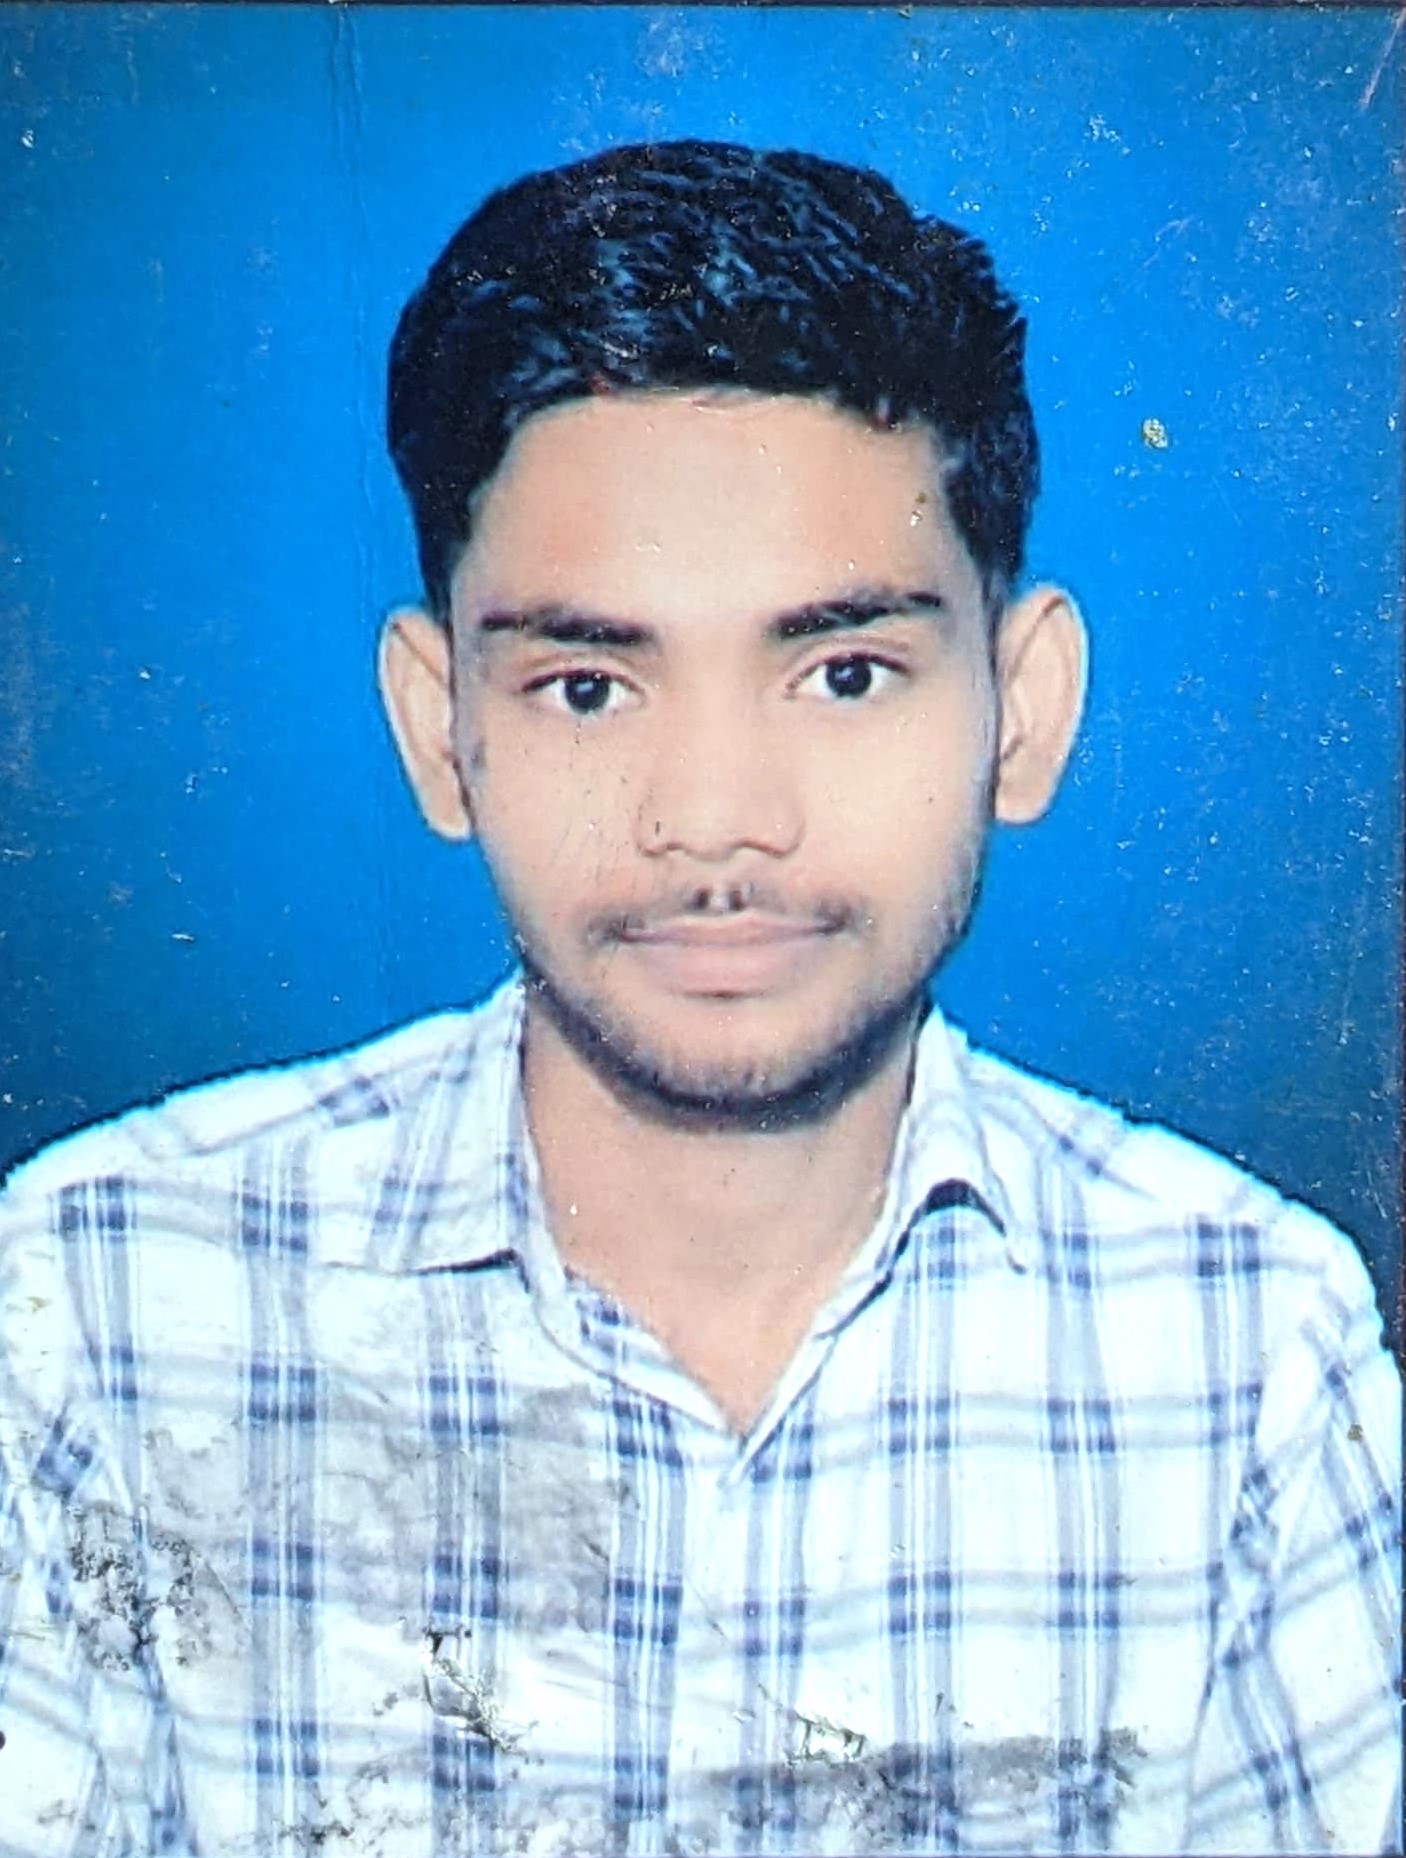
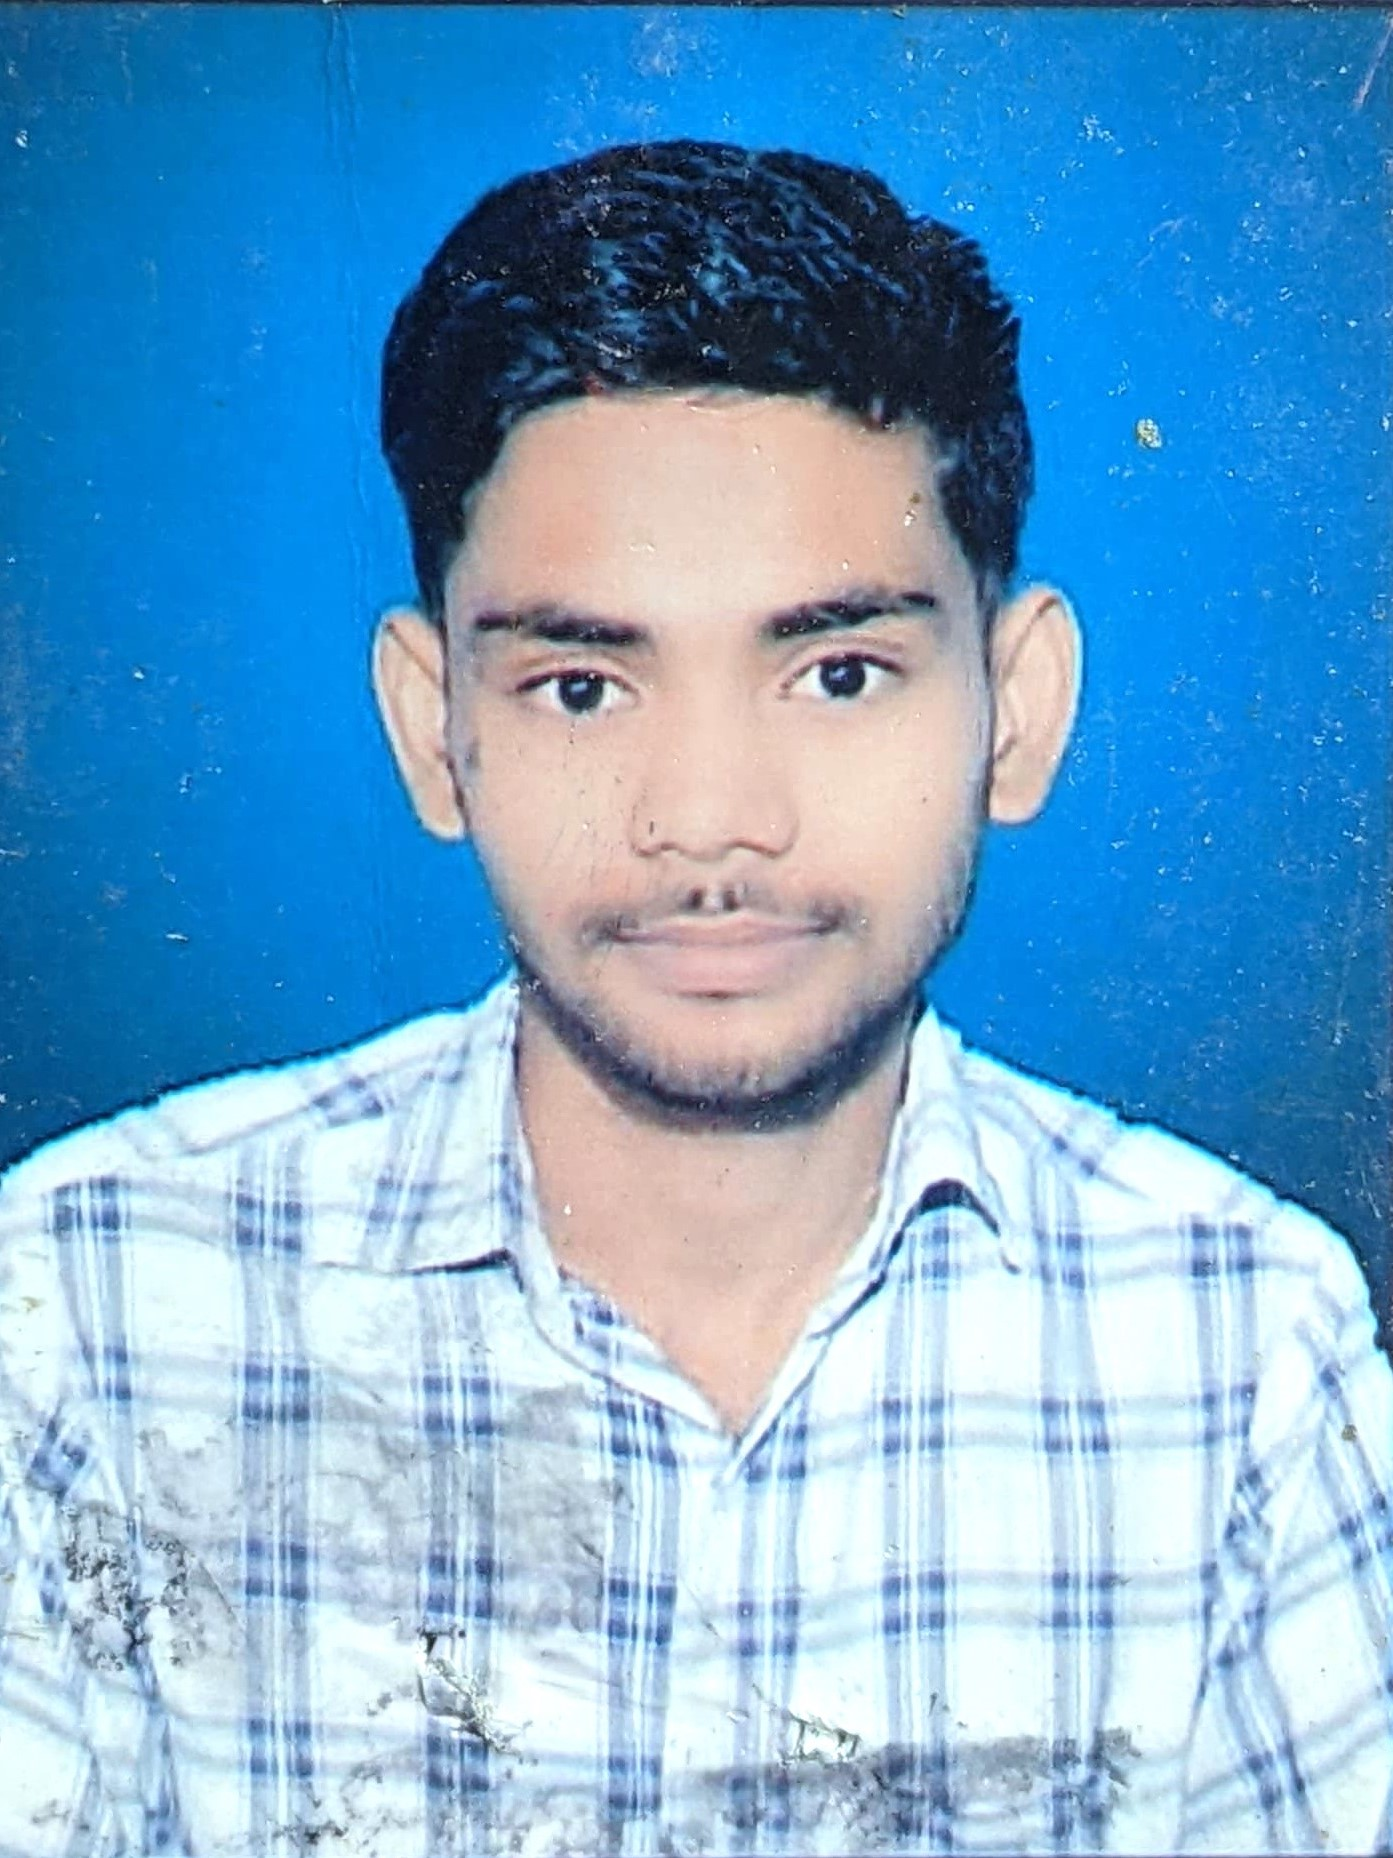
image section done

diff --git a/style.css b/style.css
@@ -68,34 +68,23 @@ h3{
 
 /* end */
 .image{
-    height: 400px;
-    width: 350px;
-    animation-name: move;
-    animation-duration: 5s;
-    animation-fill-mode: forwards;
-    animation-iteration-count: infinite;
-    -webkit-mask-repeat:no-repeat ;
+    height: 260px;
+    width: 260px;
 }
 
-@keyframes move{
-    0%{
[1 lines of base64/hex data omitted]
-    }
-    33%{
[1 lines of base64/hex data omitted]
-    }
-    66%{
[1 lines of base64/hex data omitted]
-    }
-    100%{
[1 lines of base64/hex data omitted]
-    }
-}
+
 .profile-img{
-   object-fit: contain;
-   height: 75%;
-   width: 100%;
-   padding-top: 4rem;
+   object-fit: cover;
+   height: 100%;
+   width: 80%;
+   border-radius:  19% 81% 42% 58% / 50% 36% 64% 50% ; 
+   border: 3px solid black;
+   transition: border-radius 5000ms ease-in-out;
+   margin-left: 4rem; 
+}
+.profile-img:hover{
+    border-radius: 78% 22% 69% 31% / 58% 58% 42% 42% ; 
+    border: 3.5px solid black;
 }
 
 .top-icon{
